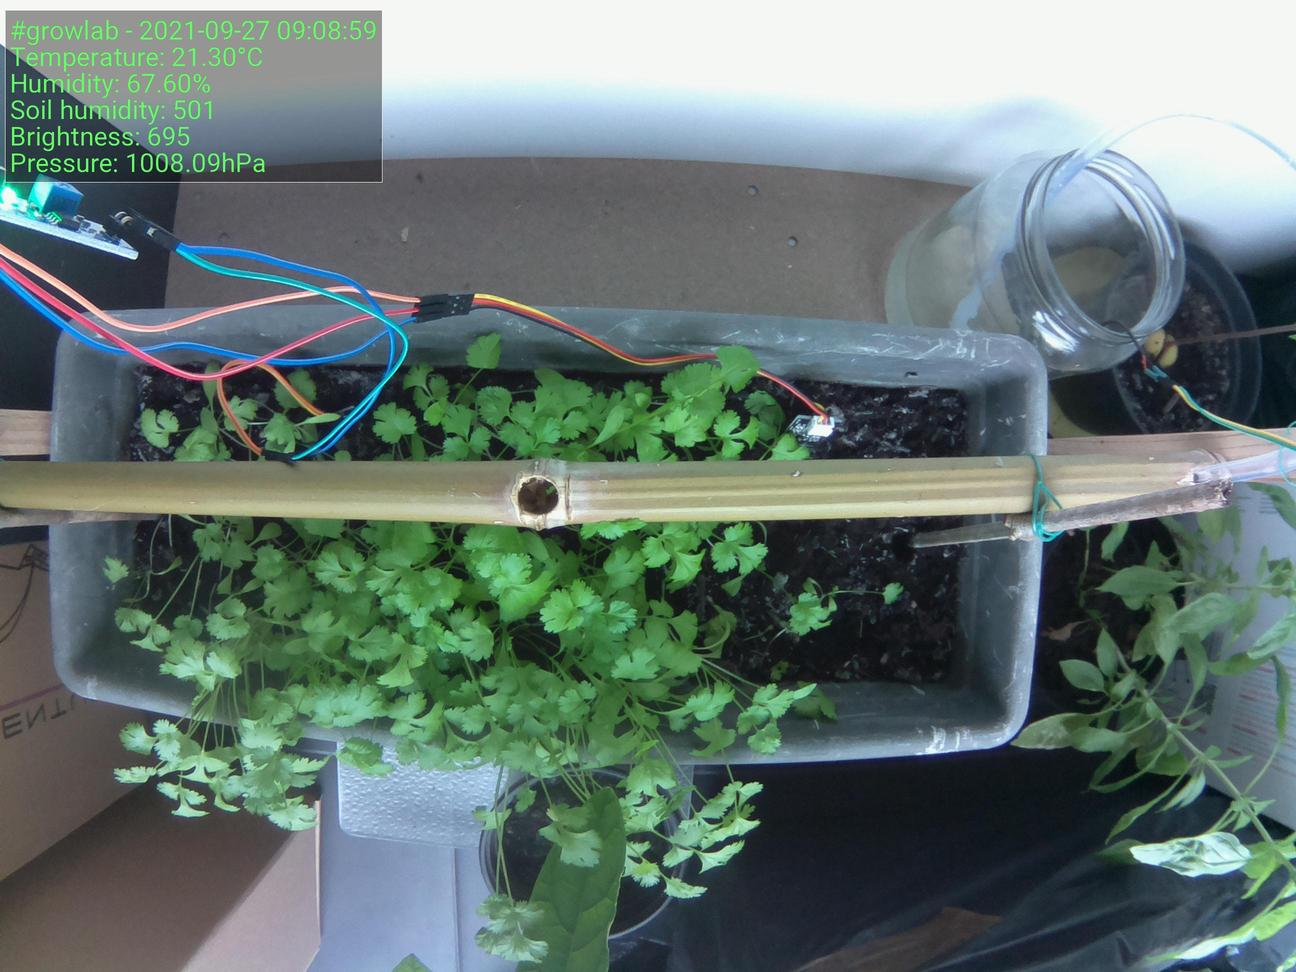
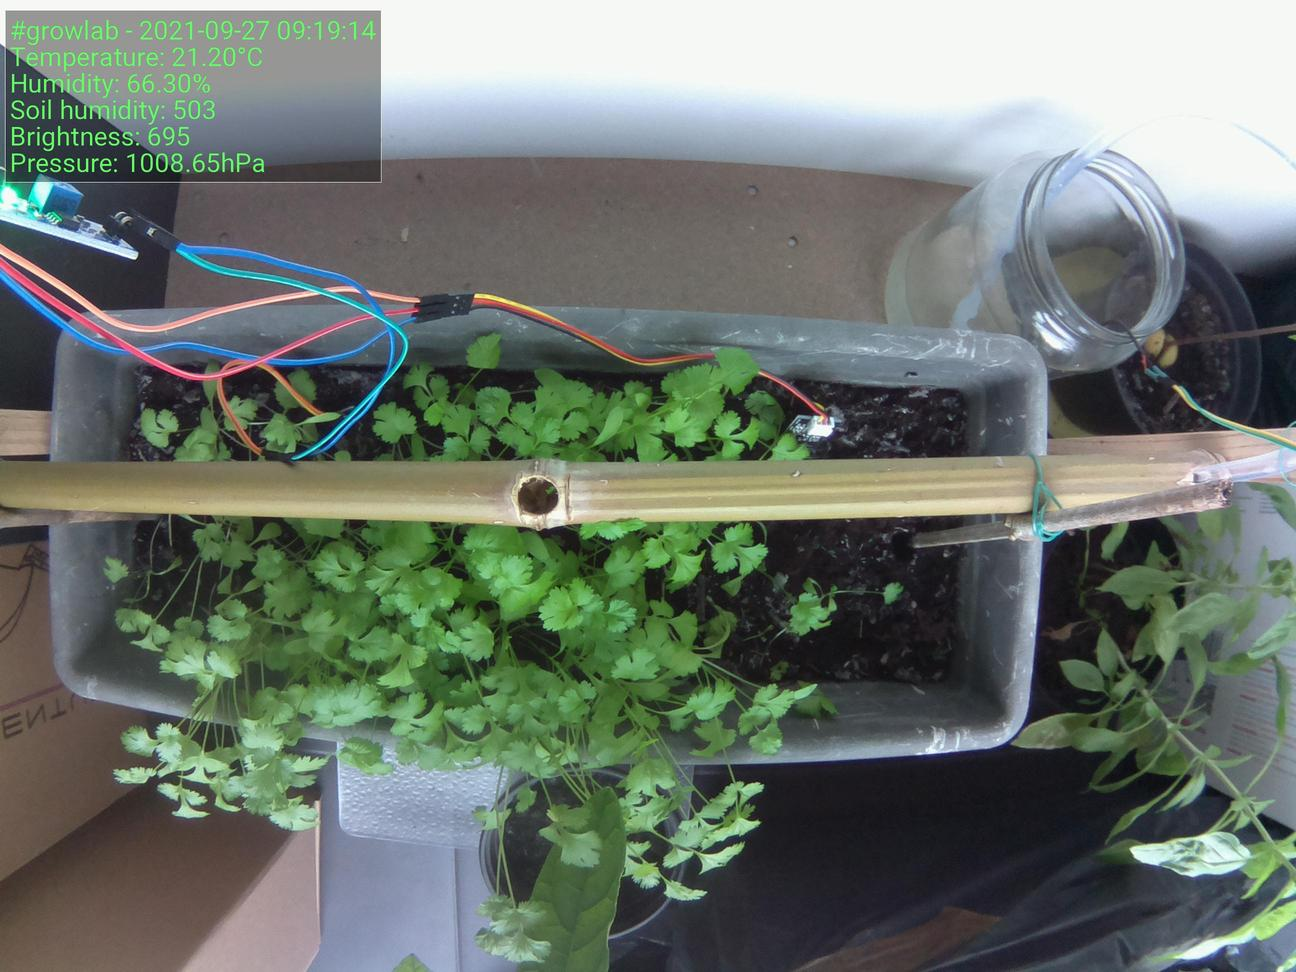
:bento: Update preview

diff --git a/index.html b/index.html
@@ -39,15 +39,15 @@
                     <tbody>
                         <tr>
                             <td>Time</td>
-                            <td>2021-09-27 09:08:59</td>
+                            <td>2021-09-27 09:19:14</td>
                         </tr>
                         <tr>
                             <td>Temperature</td>
-                            <td>21.30°C</td>
+                            <td>21.20°C</td>
                         </tr>
                         <tr>
                             <td>Humidity</td>
-                            <td>67.60%</td>
+                            <td>66.30%</td>
                         </tr>
                     </tbody>
                 </table>
@@ -55,7 +55,7 @@
 
                 <h5>Latest image</h5>
 		<div style="width: 85%;">
-	                <img class="figure-img img-fluid rounded" src="./preview.jpg?uid=1632726547.3811624">
+	                <img class="figure-img img-fluid rounded" src="./preview.jpg?uid=1632727161.9985151">
 		</div>
             </div>
         </div>
